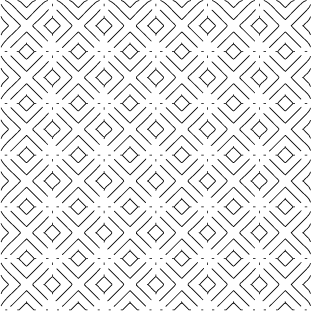
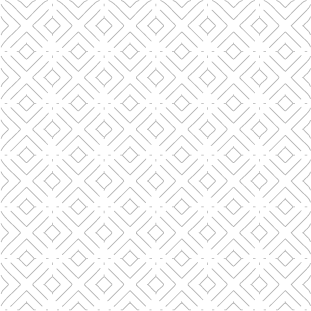
20220806
Update：
Complete Menu modify as 100% styling.
Complete Login setState

Target: tomorrow will fully Complete menu page and try to do Register page or study Cart page

Changed region(s): [[0.0, 0.0, 1.0, 1.0]]

diff --git a/src/Pages/MenuComponents/M3Component/M3Main.js b/src/Pages/MenuComponents/M3Component/M3Main.js
@@ -1,29 +1,67 @@
 import React from 'react'
+import ChilliIcon from '../../img/SVG/ChiliIcon.svg'
 
-function M3Main({value,index,arrayData}) {
-  console.log("insideM3Main:",index)
-  const M3file = value;
+function M3Main({ value, index, arrayData }) {
+  console.log('insideM3Main:', index)
+  const M3file = value
+  const spicyLevel = value.SpicyLevel
   return (
-        <div className='TabsBox' hidden={arrayData!=index} style={{backgroundColor:`${value.BackGColor}`}}>
-          <div className='TabsContents'>
-            <h3 className='mb-2'>{M3file.product_name}</h3>
-            <p className='materials mb-2'>
-              {M3file.Materials}
-            </p>
-            <span className='TabsPrice'>NTD .</span>
-            <span className='TabsPrice'>{M3file.price}</span>
-            <span>( {'\u00A0'} 含飲料，小菜 {'\u00A0'} )</span>
-            <div className='borderBottom mt-2 mb-2'></div>
-            <p className='ContentsDescription mb-2'>{M3file.product_description}</p>
-            <button className='AddtoCart btn mt-4'>
-              <div className='cartBtn'>馬上加入購物車</div>
-              </button>
-            
-          </div>
-          <div className='TContentImg'>
-            <img src={M3file.RemoveBG} alt="" />
-          </div>
+    <div
+      className="TabsBox"
+      hidden={arrayData != index}
+      style={{ backgroundColor: `${value.BackGColor}` }}
+    >
+      <div className="TabsContents">
+        <div className="TabsChili">
+          {spicyLevel === 'Level2' ? (
+            <>
+              <img src={ChilliIcon} alt="" /> <img src={ChilliIcon} alt="" />
+            </>
+          ) : null}
+          {spicyLevel === 'Level1' ? (
+            <>
+              <img src={ChilliIcon} alt="" />
+            </>
+          ) : null}
+          {spicyLevel === 'Level3' ? (
+            <>
+              <img src={ChilliIcon} alt="" /> <img src={ChilliIcon} alt="" />
+              <img src={ChilliIcon} alt="" />
+            </>
+          ) : null}
+          {spicyLevel === 'Level4' ? (
+            <>
+              <img src={ChilliIcon} alt="" /> <img src={ChilliIcon} alt="" />
+              <img src={ChilliIcon} alt="" />
+              <img src={ChilliIcon} alt="" />
+            </>
+          ) : null}
+          {spicyLevel === 'Level5' ? (
+            <>
+              <img src={ChilliIcon} alt="" /> <img src={ChilliIcon} alt="" />
+              <img src={ChilliIcon} alt="" />
+              <img src={ChilliIcon} alt="" />
+              <img src={ChilliIcon} alt="" />
+            </>
+          ) : null}
         </div>
+        <h3 className="mb-2">{M3file.product_name}</h3>
+        <p className="materials mb-2">{M3file.Materials}</p>
+        <span className="TabsPrice">NTD .</span>
+        <span className="TabsPrice">{M3file.price}</span>
+        <span>
+          ( {'\u00A0'} 含飲料，小菜 {'\u00A0'} )
+        </span>
+        <div className="borderBottom mt-2 mb-2"></div>
+        <p className="ContentsDescription mb-2">{M3file.product_description}</p>
+        <button className="AddtoCart btn mt-4">
+          <div className="cartBtn">馬上加入購物車</div>
+        </button>
+      </div>
+      <div className="TContentImg">
+        <img src={M3file.RemoveBG} alt="" />
+      </div>
+    </div>
   )
 }
 

diff --git a/src/Pages/components/FoodMenu.js b/src/Pages/components/FoodMenu.js
@@ -9,29 +9,31 @@ import BannerImg from '../img/MenuImg/banner.png'
 
 function FoodMenu() {
   return (
-    <div className="MBodyMenu">
-      <div className="Mcontainer">
-        <div className="BannerContainer">
-          <div className="BContent">
-            <h3>最正異國風味</h3>
-            <p>
-              鮮蝦與香料為基底熬煮，嚐起來帶有嗆辣感好是滋味！...
-              東央貢熬煮的時候廚房充斥著酸辣味，瞬間一秒來到泰式餐廳的感覺！這道菜不難，所有材料在家樂福可以一站購全，不想出門遙控吳伯義或是傅龐達購買也可以唷
-            </p>
-            <div className="d-flex justify-content-end">
-              <Link to="#/" className="Sec5Link">
-                點我了解更多
-              </Link>
+    <section className="MBodyMenu">
+      <div className="PatternBG">
+        <div className="Mcontainer">
+          <div className="BannerContainer">
+            <div className="BContent">
+              <h3>最正異國風味</h3>
+              <p>
+                鮮蝦與香料為基底熬煮，嚐起來帶有嗆辣感好是滋味！...
+                東央貢熬煮的時候廚房充斥著酸辣味，瞬間一秒來到泰式餐廳的感覺！這道菜不難，所有材料在家樂福可以一站購全，不想出門遙控吳伯義或是傅龐達購買也可以唷
+              </p>
+              <div className="d-flex justify-content-end">
+                <Link to="#/" className="Sec5Link">
+                  點我了解更多
+                </Link>
+              </div>
+            </div>
+            <div className="BannerImg">
+              <img src={BannerImg} alt="" />
             </div>
           </div>
-          <div className="BannerImg">
-            <img src={BannerImg} alt="" />
-          </div>
         </div>
+        <MenuSection2 />
+        <MenuSection3 />
       </div>
-      <MenuSection2 />
-      <MenuSection3 />
-    </div>
+    </section>
   )
 }
 

diff --git a/src/Pages/CSS/FoodMenu.css b/src/Pages/CSS/FoodMenu.css
@@ -35,19 +35,22 @@ body {
     position: relative;
 
 }
-.MBodyMenu::after {
+/* .MBodyMenu::after {
     content: '';
     position: absolute;
     left: 0;
     top: 0;
     right: 0;
     bottom: 0;
-    background-image: url('../img/background/pattern.png');
+  
+} */
+.PatternBG {
+      background-image: url('../img/background/pattern.png');
     background-position: center;
     background-repeat: repeat;
     background-size: auto;
-    opacity: 0.3;
 }
+
 .Mcontainer {
 width: 100vw;
 background-image: url('../img/MenuImg/MenuTopBg.jpg');
@@ -203,6 +206,7 @@ position: relative;
 .MS2Content p {
     font-size: 2rem;
     text-align: left;
+    font-weight: 300;
 }
 .MS2Price{
     text-align: right;
@@ -286,6 +290,15 @@ background-repeat: repeat-x;
     border: 5px solid var(--primary);
     overflow: hidden;
 }
+.MS2Content p {
+    font-size: 1.5rem;
+    text-align: left;
+    font-weight: 300;
+}
+.MS2Price{
+
+    font-size: 3rem;
+}
 }
 
 /*_____TabMenu_____*/
@@ -364,6 +377,15 @@ background-repeat: repeat-x;
     font-size: .9rem;
     font-weight: 300;
     width: 33vw;
+}
+
+.TabsChili {
+    display: flex;
+    height: 6vh;
+}
+.TabsChili img{
+    width: 5%;
+    filter: drop-shadow(1px 1px 0px rgb(185, 83, 0));
 }
 
 .TabsBox .TContentImg{

diff --git a/src/Pages/components/LoginComponents/LoginModal.js b/src/Pages/components/LoginComponents/LoginModal.js
@@ -1,7 +1,8 @@
-import React, { useState } from 'react'
+import React, { useContext, useState } from 'react'
 import { Link } from 'react-router-dom'
 import { LOGIN_API } from '../../../configs/AjaxPath'
 import { useNavigate } from 'react-router-dom'
+import sqlLoginContext from './sqlLoginContext'
 
 function LoginModal(props) {
   const navigate = useNavigate()
@@ -9,6 +10,8 @@ function LoginModal(props) {
     username: '',
     password: '',
   })
+
+  const { setAuth } = useContext(sqlLoginContext)
 
   const changeFields = (event) => {
     const id = event.target.id
@@ -32,8 +35,11 @@ function LoginModal(props) {
         console.log(result)
         if (result.success) {
           localStorage.setItem('auth', JSON.stringify(result.data))
+          setAuth({
+            ...result.data,
+            authorized: true,
+          });
           props.setTrigger(false)
-          
           navigate('/')
         } else {
           alert('帳密錯誤')

diff --git a/src/Pages/CSS/Main.css b/src/Pages/CSS/Main.css
@@ -741,6 +741,7 @@ font-size: 1.5vw !important;
     background-color: var(--primary);
     width: 4vw;
     height: 8vh;
+    transition: transform 250ms ease-in-out;
   }
 
   .closeBTN::before{
@@ -755,6 +756,10 @@ font-size: 1.5vw !important;
     top: 50%;
     left: 50%;
     transform: translateX(-50%) translateY(-50%);
+  }
+
+  .closeBTN:hover {
+    transform: rotate(180deg);
   }
 
 

diff --git a/src/Pages/MenuComponents/MenuSection3.js b/src/Pages/MenuComponents/MenuSection3.js
@@ -4,6 +4,8 @@ import FileMenuInfo from '../Api/MenuApi'
 import M3Main from './M3Component/M3Main'
 import M3Dot from './M3Component/M3Dot'
 
+
+
 function MenuSection3(props) {
   const [arrayData, setArrayData] = useState(0)
 
